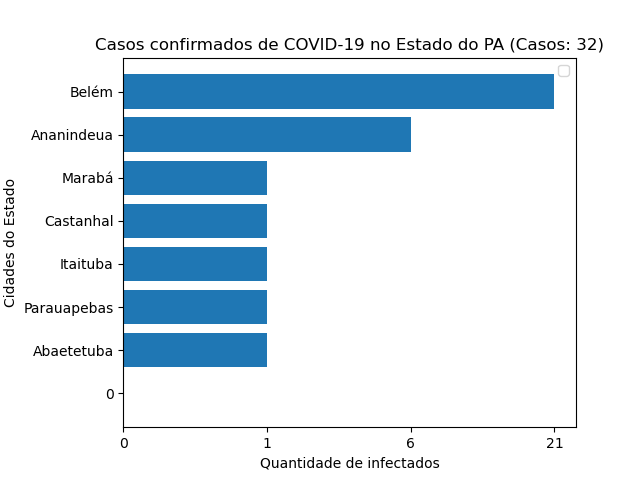
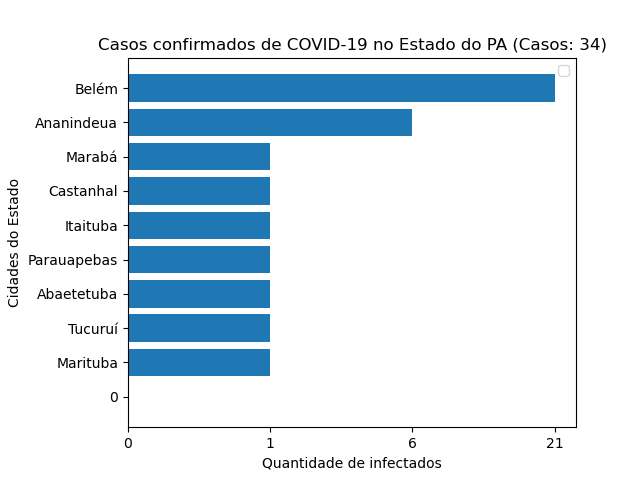
Atualização dos dados

Changed region(s): [[0.0, 0.0625, 0.9688, 0.8438], [0.4062, 0.9062, 0.6875, 1.0], [0.1875, 0.875, 0.2188, 0.9375]]

diff --git a/Grafico_de_Barras.py b/Grafico_de_Barras.py
@@ -2,12 +2,12 @@
 import matplotlib.pyplot as plt
 
 ##Valores
-cidades = ['0','Abaetetuba','Parauapebas','Itaituba','Castanhal','Marabá','Ananindeua','Belém']
-casos = ['0','1','1','1','1','1','6','21']
+cidades = ['0','Marituba','Tucuruí','Abaetetuba','Parauapebas','Itaituba','Castanhal','Marabá','Ananindeua','Belém']
+casos = ['0','1','1','1','1','1','1','1','6','21']
 
 
 ##Legendar o grafico
-titulo = "Casos confirmados de COVID-19 no Estado do PA (Casos: 32)"
+titulo = "Casos confirmados de COVID-19 no Estado do PA (Casos: 34)"
 Legenda_x = "Quantidade de infectados"
 Legenda_y = "Cidades do Estado"
 
